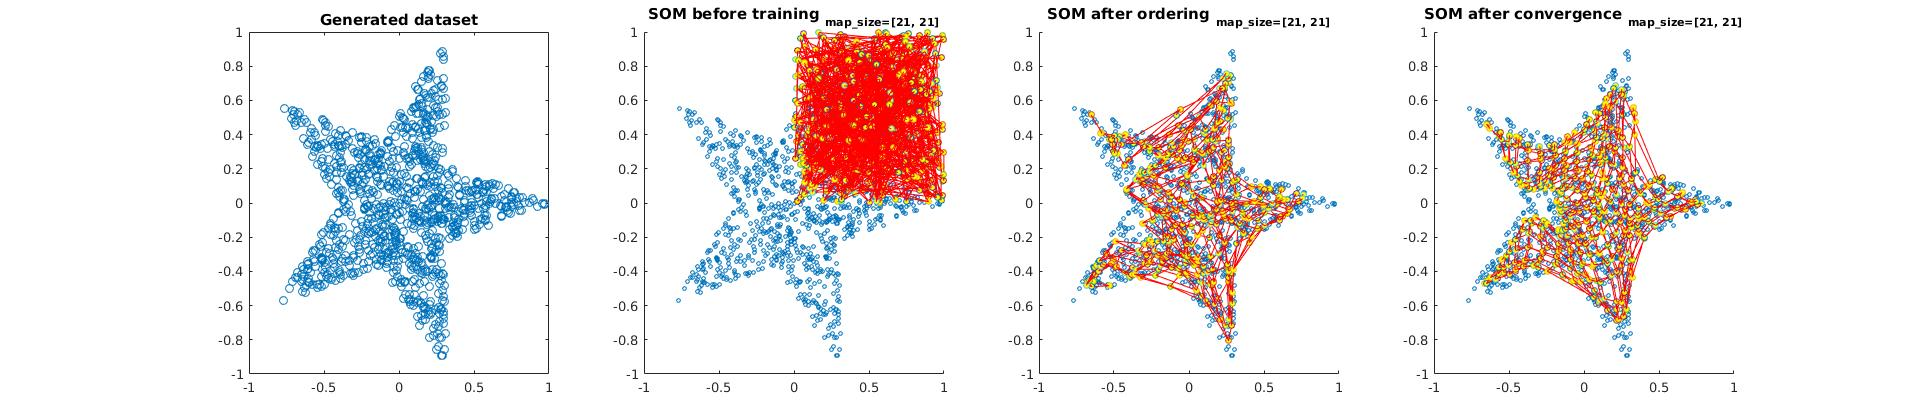
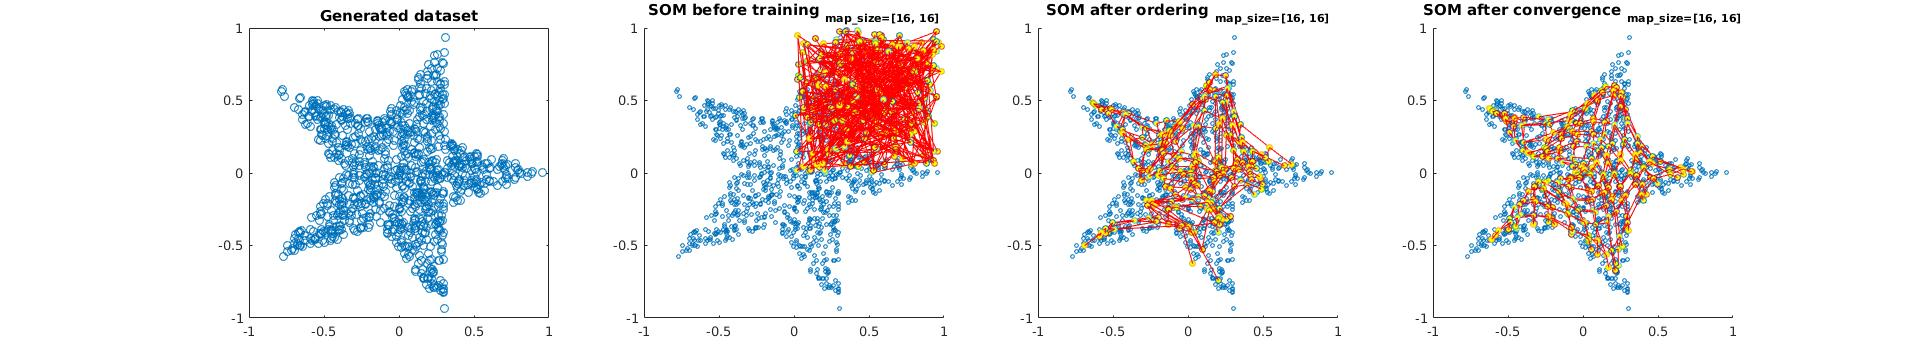
completed ass6!

diff --git a/ass6/ass6.m b/ass6/ass6.m
@@ -8,16 +8,16 @@ end
 
 test_map_sizes = true;
 test_learning_rates = true;
+test_one_dimensional = true;
+test_by_three = true;
 
 nin = 2;
 map_sides = [2:10 11:2:21];
-map_size = [16, 16];
 options(1) = 0;     % Don't show iteration info
 options(5) = 1;     % Random sampled
-options(14) = 400;  % # of iterations 
+options(14) = 1000;  % # of iterations 
 options(15) = 1;    % Final neighborhood size
 options(16) = 0.05;  % Final learning rate
-options(17) = round(sqrt(map_size(1,2)^2 + map_size(1,1)^2)/2); % initial neighborhood size
 options(18) = 0.9;  % Initial learning rate
 
 if test_map_sizes
@@ -55,6 +55,8 @@ if test_map_sizes
     ylabel('Neurons inside training star shape')
 end
 
+map_size = [16, 16];
+options(17) = round(sqrt(map_size(1,2)^2 + map_size(1,1)^2)/2); % initial neighborhood size
 figure
 subplot(1, 4, 1)
 plot(star(:, 1), star(:, 2), 'o')
@@ -73,7 +75,7 @@ map2 = net2.map;
 subplot(1, 4, 3)
 plot_lattice(map2, star)
 title(['SOM after ordering _{map\_size=[', num2str(map_size(1)), ', ', num2str(map_size(2)), ']}'])
-options(14) = 400;   % # of iterations 
+options(14) = 1000;   % # of iterations 
 options(16) = 0.05;  % Final learning rate
 options(18) = 0.5;  % Initial learning rate
 net3 = somtrain(net2, options, star);
@@ -85,6 +87,7 @@ title(['SOM after convergence _{map\_size=[', num2str(map_size(1)), ', ', num2st
 
 if test_learning_rates
     map_size = [16, 16];
+    options(17) = round(sqrt(map_size(1,2)^2 + map_size(1,1)^2)/2); % initial neighborhood size
     % Testing initial learning rate
     init_learnings = .9:-.1:.1;
     options(16) = .05;  % Final learning rate
@@ -138,4 +141,44 @@ if test_learning_rates
 end
 
 
-disp('\nPlease wait for the graphs to load...')
+if test_one_dimensional
+    map_sizes = [5, 10, 25, 50, 100, 200, 400, 800, samples];
+    figure
+    for i = 1:length(map_sizes);
+        map_size = [1, map_sizes(i)];
+        disp(['Doing SOM with map of size [', num2str(map_size), ']'])
+        options(17) = round(sqrt(map_size(1,2)^2 + map_size(1,1)^2)/2); % initial neighborhood size
+        options(18) = 0.9;  % Initial learning rate
+        options(16) = 0.05;  % Final learning rate
+        net = som(nin, map_size);
+        net = somtrain(net, options, star);
+        map = net.map;
+        
+        subplot(ceil(length(map_sizes) / 3), 3, i)
+        plot_lattice(map, star)
+        title(['map\_size=[', num2str(map_size), ']'])
+    end
+end
+
+
+if test_by_three
+    map_sizes = [5, 10, 25, 50, 100, 300, 400, 800, samples];
+    figure
+    for i = 1:length(map_sizes);
+        map_size = [3, map_sizes(i)];
+        disp(['Doing SOM with map of size [', num2str(map_size), ']'])
+        options(17) = round(sqrt(map_size(1,2)^2 + map_size(1,1)^2)/2); % initial neighborhood size
+        options(18) = 0.9;  % Initial learning rate
+        options(16) = 0.05;  % Final learning rate
+        net = som(nin, map_size);
+        net = somtrain(net, options, star);
+        map = net.map;
+        
+        subplot(ceil(length(map_sizes) / 3), 3, i)
+        plot_lattice(map, star)
+        title(['map\_size=[', num2str(map_size), ']'])
+    end
+end
+
+
+disp('Please wait for the graphs to load...')

diff --git a/ass6/plot_lattice.m b/ass6/plot_lattice.m
@@ -5,14 +5,17 @@ plot(training(:, 1), training(:, 2), 'o', 'markersize', 3)
 
 [~, mapw, maph] = size(map);
 
-for i = 1:mapw-1;
-    for j = 1:maph-1;
-        scatter([map(1, i, j) map(1, i+1, j)], [map(2, i, j) map(2, i+1, j)], 20, 'MarkerFaceColor', 'y')
-        scatter([map(1, i, j) map(1, i, j+1)], [map(2, i, j) map(2, i, j+1)], 20, 'MarkerFaceColor', 'y')
+for i = 1:mapw;
+    for j = 1:maph;
+        if i ~= mapw
+            scatter([map(1, i, j) map(1, i+1, j)], [map(2, i, j) map(2, i+1, j)], 20, 'MarkerFaceColor', 'y')
+            plot([map(1, i, j) map(1, i+1, j)], [map(2, i, j) map(2, i+1, j)], 'r-')
+        end
         
-        
-        plot([map(1, i, j) map(1, i+1, j)], [map(2, i, j) map(2, i+1, j)], 'r-')
-        plot([map(1, i, j) map(1, i, j+1)], [map(2, i, j) map(2, i, j+1)], 'r-')
+        if j ~=  maph
+            scatter([map(1, i, j) map(1, i, j+1)], [map(2, i, j) map(2, i, j+1)], 20, 'MarkerFaceColor', 'y')
+            plot([map(1, i, j) map(1, i, j+1)], [map(2, i, j) map(2, i, j+1)], 'r-')
+        end
     end
 end
 
